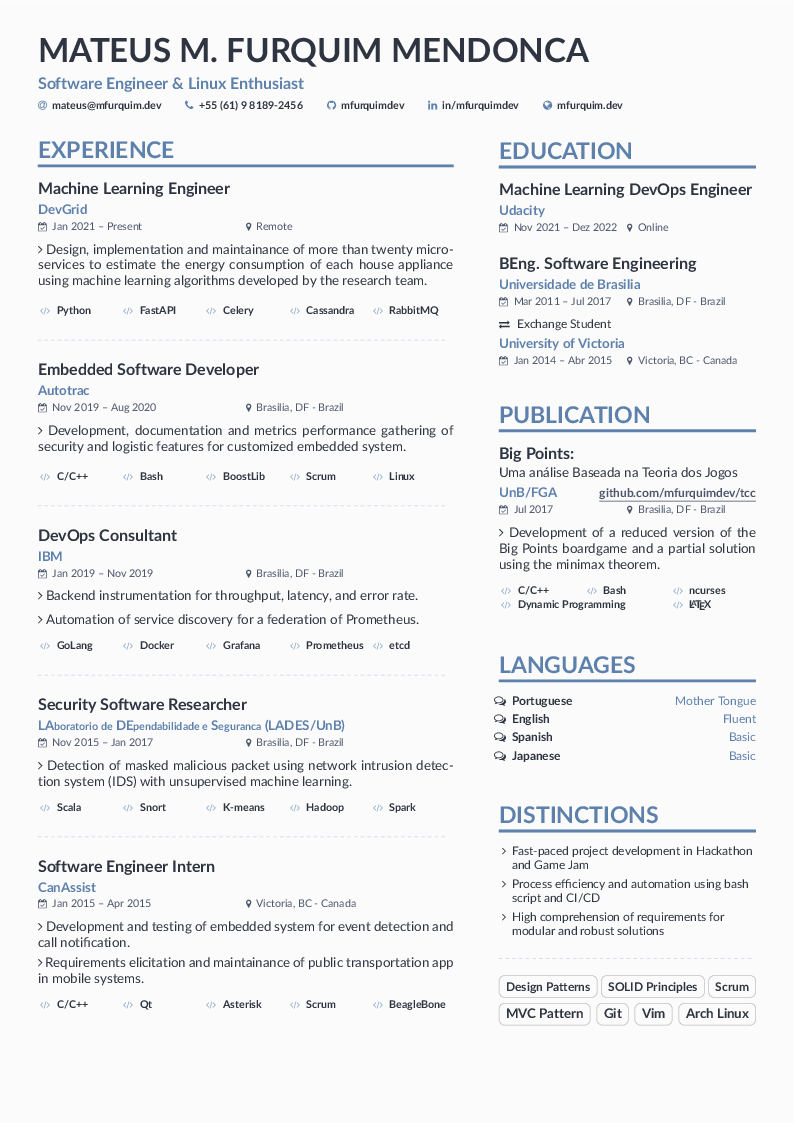
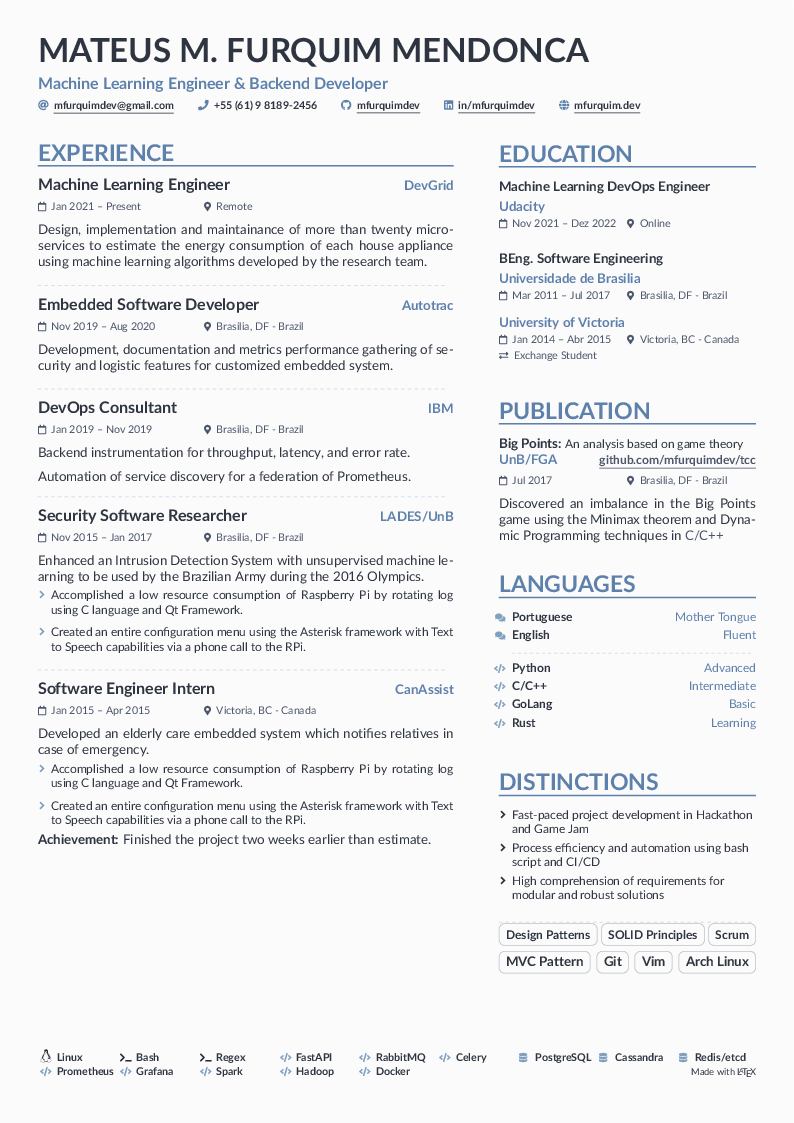
Add resume to README

diff --git a/README.md b/README.md
@@ -1,4 +1,4 @@
-My Website
-==========
+Resume
+======
 
-[![ko-fi](https://ko-fi.com/img/githubbutton_sm.svg)](https://ko-fi.com/O5O62HL17)
+[![resume](resume/main.png)](https://www.linkedin.com/in/mfurquimdev/)
